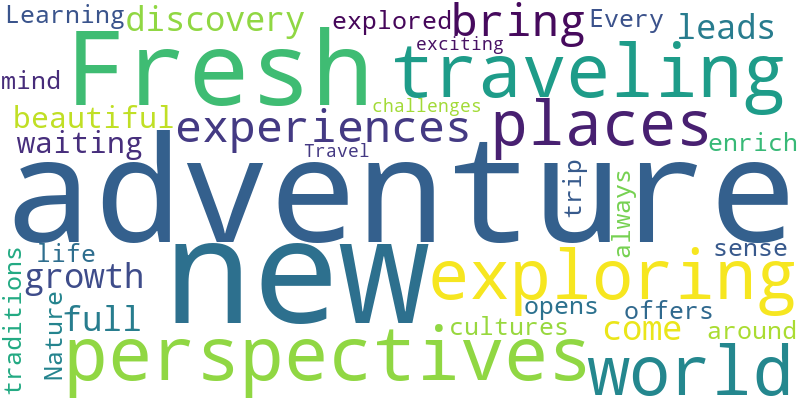
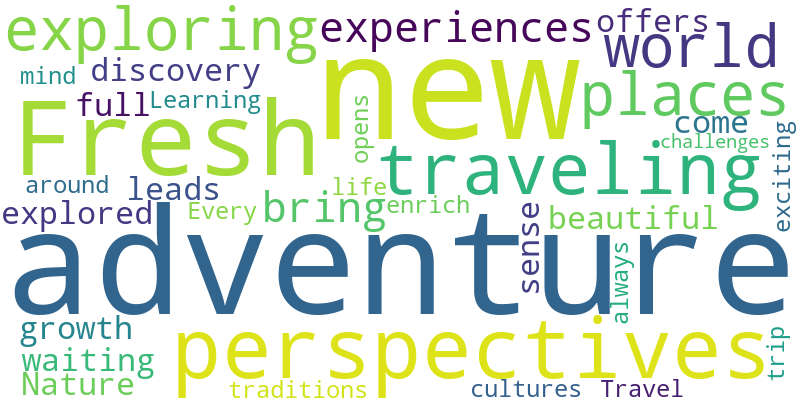
yes

diff --git a/src/components/WordCloud.tsx b/src/components/WordCloud.tsx
@@ -1,47 +1,62 @@
-'use client';
+'use client';  // Ensure the component runs on the client side in Next.js (client-side rendering)
 
 import { useEffect, useState } from 'react';
-import Image from 'next/image';
+import Image from 'next/image'; // Import Image component from Next.js for optimized image loading
 
+// WordCloud component that takes text as a prop and generates a word cloud
 const WordCloud = ({ text }: { text: string }) => {
+  // State to store the URL of the generated word cloud image
   const [wordCloudUrl, setWordCloudUrl] = useState<string | null>(null);
 
+  // useEffect hook to fetch word cloud whenever the 'text' prop changes
   useEffect(() => {
     const fetchWordCloud = async () => {
       try {
+        // Send a POST request to the API route with the text to generate a word cloud
         const response = await fetch('/api/wordcloud', {
-          method: 'POST',
+          method: 'POST',  // HTTP method is POST
           headers: {
-            'Content-Type': 'application/json',
+            'Content-Type': 'application/json',  // Specify the content type
           },
-          body: JSON.stringify({ text }), // Send the text from posts here
+          body: JSON.stringify({ text }), // Send the text content as JSON
         });
 
+        // Parse the response from the API
         const data = await response.json();
+        
         if (response.ok) {
+          // If the response is successful, set the image URL in state
           setWordCloudUrl(data.image);
         } else {
-          console.error('Error generating word cloud');
+          console.error('Error generating word cloud'); // Handle failure if response is not OK
         }
       } catch (error) {
-        console.error('Error fetching word cloud:', error);
+        console.error('Error fetching word cloud:', error); // Handle errors during the fetch process
       }
     };
 
-    fetchWordCloud();
-  }, [text]);
+    fetchWordCloud(); // Call the function to fetch the word cloud
+  }, [text]); // The effect runs whenever the 'text' prop changes
 
   return (
     <div>
       {wordCloudUrl ? (
+        // If the word cloud image URL is available, display the image
         <>
-          <Image src={wordCloudUrl} alt="Word Cloud" layout="responsive" width={500} height={500} />
+          <Image 
+            src={wordCloudUrl} 
+            alt="Word Cloud" 
+            layout="responsive"  // Image layout will scale responsively
+            width={500}           // Set the width of the image
+            height={500}          // Set the height of the image
+          />
         </>
       ) : (
+        // If the word cloud URL isn't available yet, show a loading message
         <p>Loading word cloud...</p>
       )}
     </div>
   );
 };
 
-export default WordCloud;
+export default WordCloud;  // Export the WordCloud component for use in other parts of the app

diff --git a/src/app/page.tsx b/src/app/page.tsx
@@ -7,31 +7,30 @@ const HomePage = async () => {
   let postsContent = '';
 
   try {
-    // Fetch the most recent 5 posts from the database
+    // Fetch all posts from the database
     const posts = await prisma.post.findMany({
       orderBy: {
-        createdAt: 'desc',
+        createdAt: 'desc', // Optional: order by the created date, you can remove this if order is not needed
       },
-      take: 5, // Get the most recent 5 posts
     });
 
+    // Concatenate the content of all posts
     if (posts.length > 0) {
-      // Concatenate the content of all posts
       postsContent = posts.map(post => post.content).join(' ');
     } else {
-      postsContent = 'No content available';
+      postsContent = 'No content available';  // Fallback message when there are no posts
     }
   } catch (error) {
     console.error('Error fetching content from database:', error);
-    postsContent = 'Error fetching content';
+    postsContent = 'Error fetching content';  // Fallback in case of an error
   } finally {
-    await prisma.$disconnect();
+    await prisma.$disconnect();  // Ensure the Prisma client is disconnected
   }
 
   return (
     <div>
       <h1>Word Cloud Example</h1>
-      <WordCloud text={postsContent} />
+      <WordCloud text={postsContent} /> {/* Pass the concatenated post content to WordCloud */}
     </div>
   );
 };
